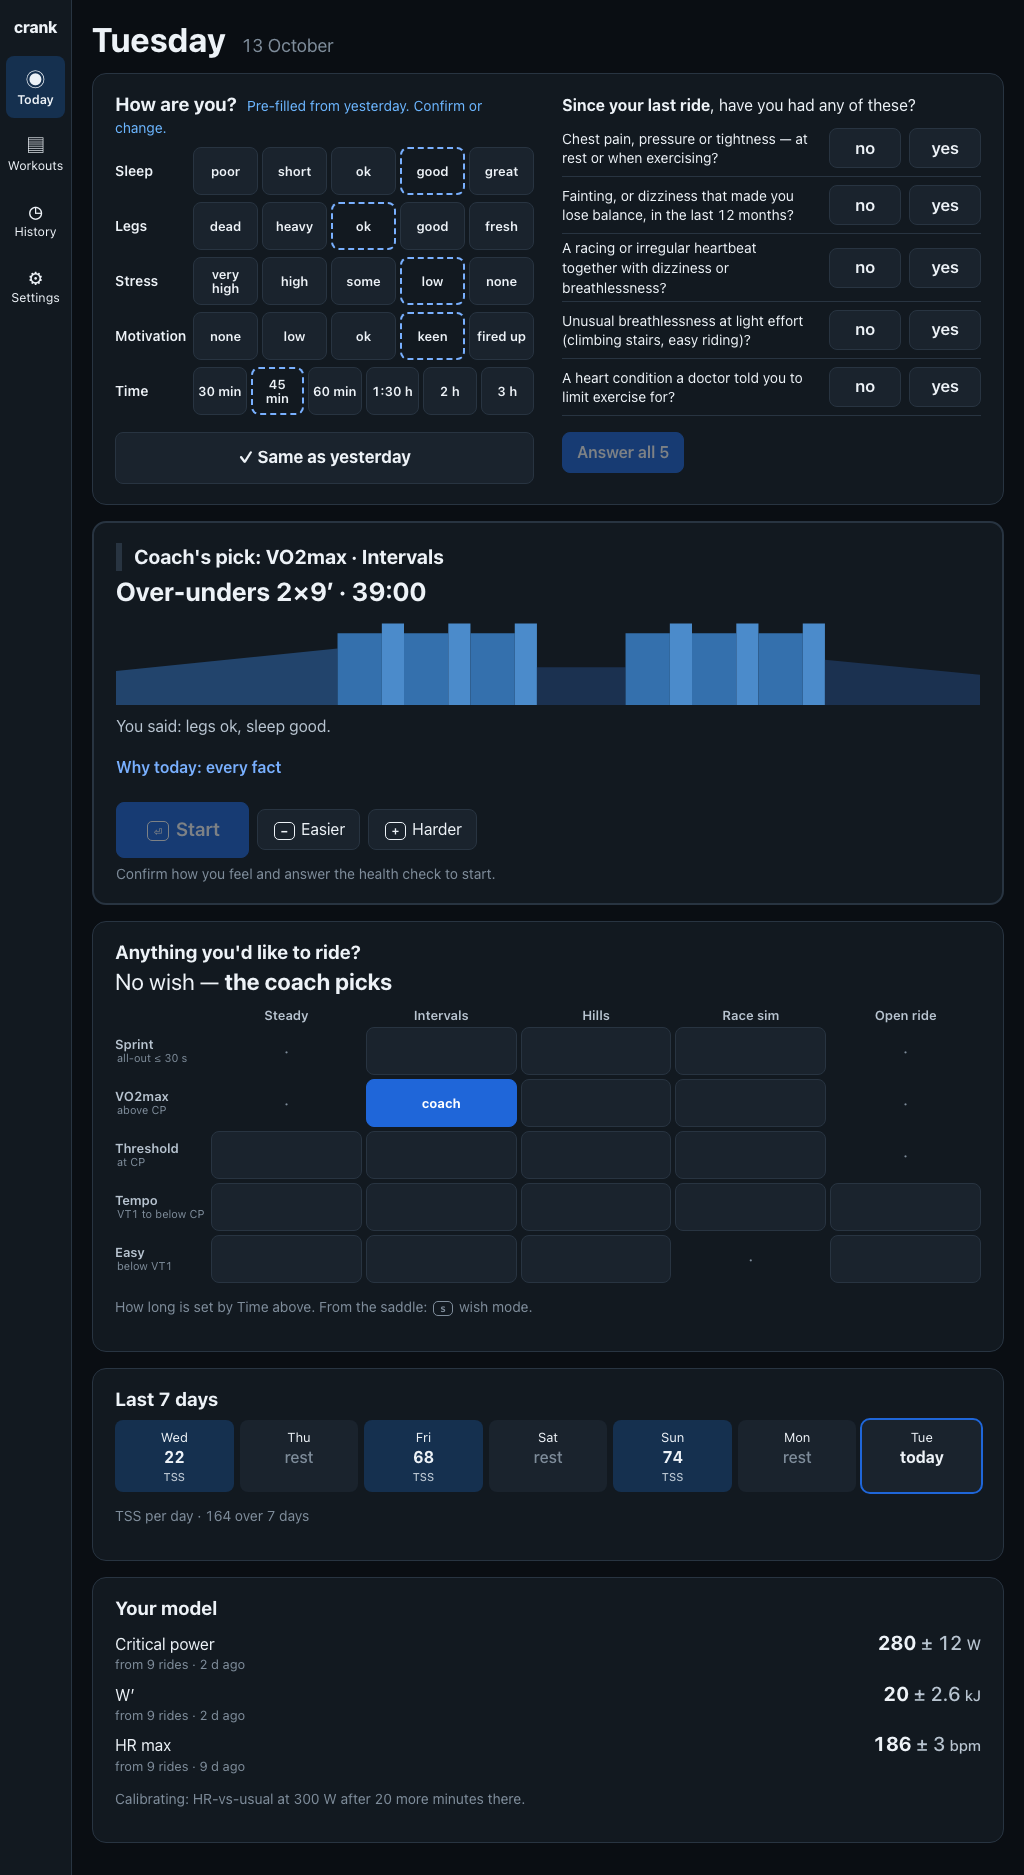
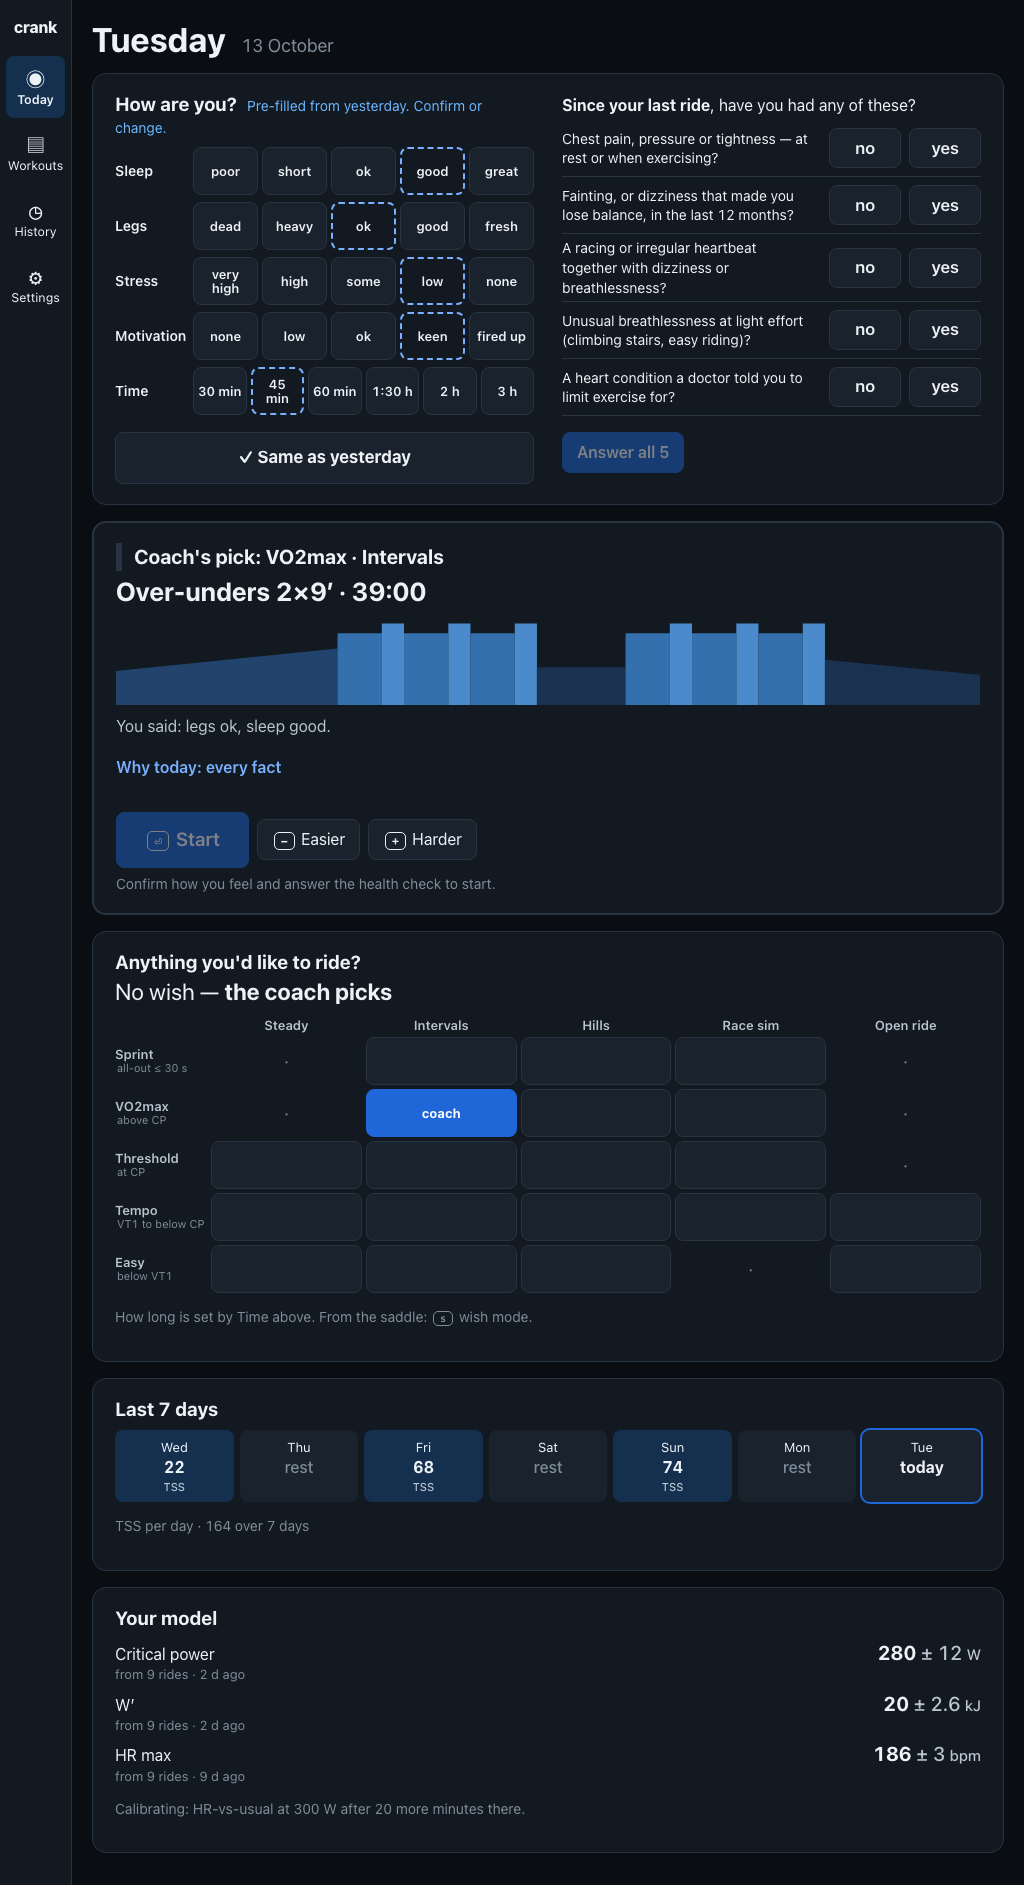
fix(design): §16 prototype follow-ups — desk Start above the fold, strict matrixFold, drawer closes on resize
Refs: #179

diff --git a/design/prototype/src/app.css b/design/prototype/src/app.css
@@ -131,6 +131,9 @@ svg .marker { stroke: var(--status-warning); stroke-width: 2; stroke-dasharray: 
 .today-grid { display: grid; gap: 16px; grid-template-columns: minmax(0, 7fr) minmax(0, 4fr); grid-template-areas: "card wish" "week model"; align-items: start; }
 .today-grid[data-stop] { grid-template-areas: "card card" "week model"; }
 .today-card { grid-area: card; display: flex; flex-direction: column; min-width: 0; align-self: stretch; }
+/* the desk card does not stretch to the matrix beside it: stretching pushed Start below the fold and left an empty band
+   under "Why today" (§16.2, #179). The saddle card stretches, its actions pinned to its bottom edge. */
+.today-card:has(> .proposal-card.desk) { align-self: start; }
 .today-card > .card { flex: 1; }
 .today-wish { grid-area: wish; min-width: 0; }
 .today-week { grid-area: week; min-width: 0; }
@@ -628,8 +631,7 @@ main[data-destination]:focus { outline: none; }
 .card-keys kbd { font-size: 0.6em; vertical-align: middle; }
 .proposal-card .actions { flex-wrap: nowrap; gap: 8px; margin-top: 10px; }
 .proposal-card.saddle .actions.saddle { margin-top: auto; padding-top: 8px; }
-/* the desk card stretches to the matrix beside it; its actions sit at the bottom (§16.2) */
-.proposal-card.desk .actions { margin-top: auto; padding-top: 4px; }
+.proposal-card.desk .actions { padding-top: 4px; }
 .proposal-card.saddle .actions.saddle button { min-height: 72px; font-size: var(--t3); padding: 0 12px; flex: 1 1 auto; white-space: nowrap; }
 .proposal-card.saddle .actions.saddle kbd { font-size: 0.55em; padding: 1px 4px; vertical-align: middle; }
 .outcome-line { font-weight: 700; border-left: 6px solid var(--border); padding-left: 12px; }

diff --git a/design/prototype/src/views/Wish.tsx b/design/prototype/src/views/Wish.tsx
@@ -169,7 +169,7 @@ export function ProposalCard(p: {
           <Key a="skip" /> other wish · <Key a="keep" /> coach's pick
         </p>
       )}
-      <div className={saddle ? "actions saddle" : "actions"} {...(saddle ? { "data-above-fold": "" } : {})} data-fit>
+      <div className={saddle ? "actions saddle" : "actions"} data-above-fold={saddle ? "" : "wide"} data-fit>
         <button className={saddle ? "primary" : "primary big"} disabled={!p.ready} onClick={p.onStart}>
           <Key a="coach" /> Start
         </button>

diff --git a/design/prototype/src/views/Workouts.tsx b/design/prototype/src/views/Workouts.tsx
@@ -119,6 +119,10 @@ export function Workouts() {
   const drawer = useStore(libraryOpen);
   const drawerMode = useDrawerMode();
   const modal = drawer && drawerMode;
+  // crossing to ≥ 1280 px closes the drawer, so it cannot reappear as a modal when the window shrinks again (#179)
+  useEffect(() => {
+    if (!drawerMode) libraryOpen.set(false);
+  }, [drawerMode]);
   const libRef = useRef<HTMLElement>(null);
   const toggleRef = useRef<HTMLButtonElement>(null);
   const closeLibrary = () => libraryOpen.set(false);

diff --git a/docs/design/DESIGN.md b/docs/design/DESIGN.md
@@ -1218,13 +1218,14 @@ T1 below it is still the block countdown), Focus keeps the second slot's exact b
 | Decision | What it is | Why |
 |---|---|---|
 | **Check-in collapses** | Once confirmed (Same as yesterday, or any change) **and** today's red flags answered, the check-in is one summary line: "sleep short · legs heavy · stress some · motivation keen · 60 min · no red flags" + *Edit*. *Edit* re-opens it in place; while open, a change never collapses it mid-edit — **✓ Use these answers** closes it (disabled until the red flags are answered). | After confirming, the check-in is history; one line keeps it checkable without pushing the card down. **Start needs the check-in done and closed**: confirmed (Same as yesterday, or a change, §5.1), today's red flags answered (§5.8), and not open for editing — so Start, and Enter, only ever act on the saddle card the rider can see, above the fold. This is stricter than §5.1 alone (a change used to enable Start while the answers were still open), never looser. "Use these answers" is named differently from the red-flag check's *Done* so the two never read as one action. Under the disabled Start the desk card says what is missing: "Confirm how you feel and answer the health check to start" before the first confirmation, "Answer the health check to start" when only the red flags are left, and "Use these answers to finish editing and enable Start" while a done check-in is re-opened. |
-| **One proposal surface** | The full-width saddle proposal and the desk proposal card are one card with two forms. **Desk** (check-in open): outcome line, session · duration, profile, one reason + *Why?*, actions Start ⏎ · − Easier · + Harder · Ride my wish / Ride the full X; "Why today: every fact" discloses the other reasons (each with *Why?*), the facts and the model's confidence, and *Edit a copy in Workouts*. **Saddle** (check-in done): the same card at T3+ / T3 with **72 px actions pinned to its bottom edge**, always above the fold; the same "Why today: every fact" disclosure (desk-size type, collapsed) above the key hints; S (Skip) / Pause open wish mode, Keep returns to the coach's pick, hinted on the card **at T3** ("S other wish · N coach's pick"), above the fold — it is the only saddle cue for wish mode, so it must read at 1 m. The desk card stretches to the height of the matrix beside it, its actions at its bottom edge. | Two cards said the same thing twice. Information is kept, not cut: the §5.1 facts, the §15.2 reasons and *Edit a copy* are one click away in both forms, and the first reason's *Why?* is on the card. **Shorter** is dropped from the card because the time is a check-in answer (§15.2: how long is Today's time) — it was a duplicate control. *Other wish* is dropped as a button: the matrix is beside the card at 1440, and wish mode is the bars' path (§15.2). One cursor: − / + on the card, Intensity − / + and the matrix all move the same wish (one outcome table, §15.2). |
+| **One proposal surface** | The full-width saddle proposal and the desk proposal card are one card with two forms. **Desk** (check-in open): outcome line, session · duration, profile, one reason + *Why?*, actions Start ⏎ · − Easier · + Harder · Ride my wish / Ride the full X; "Why today: every fact" discloses the other reasons (each with *Why?*), the facts and the model's confidence, and *Edit a copy in Workouts*. **Saddle** (check-in done): the same card at T3+ / T3 with **72 px actions pinned to its bottom edge**, always above the fold; the same "Why today: every fact" disclosure (desk-size type, collapsed) above the key hints; S (Skip) / Pause open wish mode, Keep returns to the coach's pick, hinted on the card **at T3** ("S other wish · N coach's pick"), above the fold — it is the only saddle cue for wish mode, so it must read at 1 m. The desk card does **not** stretch to the height of the matrix beside it: its actions follow its content, so Start is above the fold at 1440×900 in every desk state (check-in open, injury cap, carried-over note) and no empty band sits under "Why today" (#179). | Two cards said the same thing twice. Information is kept, not cut: the §5.1 facts, the §15.2 reasons and *Edit a copy* are one click away in both forms, and the first reason's *Why?* is on the card. **Shorter** is dropped from the card because the time is a check-in answer (§15.2: how long is Today's time) — it was a duplicate control. *Other wish* is dropped as a button: the matrix is beside the card at 1440, and wish mode is the bars' path (§15.2). One cursor: − / + on the card, Intensity − / + and the matrix all move the same wish (one outcome table, §15.2). |
 | **1440 layout** | Card 7fr | matrix 4fr, above the fold — the **complete** matrix, in every desk and saddle state. To keep it there with the check-in open: the injury-cap notice shares the date's line (one line at 1440: "⚠ Capped at threshold (100 % of CP, 280 W) · no sprints · ERG only — from your injury answer; lift it in Settings → Health"), and a carried-over wish's note sits under the matrix (the ↻ cell marks the wish itself). Last 7 days and Model in a strip under each column. Under a medical stop there is no matrix (§15.2), so the stop card spans both columns. | The proposal and the wish are the decision; history and the model are context. |
 | **1024 layout** | Stacked: summary line, the card (actions pinned at its bottom), then the matrix, Last 7 days, Model. The layout switches on the page's own width (CSS container query, < 1000 px), so 1440 with the *Why?* sheet pushed aside stacks too and the card keeps its full width. | A 4fr matrix in 912 px is too narrow for its five formats; the card must stay above the fold. |
 
 Above the fold: the saddle card (outcome, session, reason, actions) at both sizes, including `today-why`; the desk
-card's outcome line and session at both sizes (its Start is disabled while the check-in above it is open, so its
-actions are not required above the fold; `test:safety` checks Start is disabled after *Edit*). The open check-in lays its answers and the red-flag check side by side.
+card's outcome line and session at both sizes, and its actions — Start, the primary action — at 1440×900 (at 1024 the
+open check-in stacks above the card, so its actions may sit below the fold there; `test:safety` checks Start is
+disabled after *Edit*). The open check-in lays its answers and the red-flag check side by side.
 Key glyphs, on every key hint (Today, the ride's `?` list and hints, wish mode, Settings → Controls): Enter ⏎, Backspace
 ⌫, Escape "Esc", the space bar "Space"; any other key as typed.
 
@@ -1233,7 +1234,7 @@ Key glyphs, on every key hint (Today, the ride's `?` list and hints, wish mode, 
 | Decision | What it is | Why |
 |---|---|---|
 | **Labelled icon rail** | 72 px at every size (the accepted 72–76 px range's lower end): icon over a 12.5 px word, 62 px items, ≥ 48 px targets, never an icon alone. Replaces the 184 px text rail (148 px at ≤ 1100). The page's max width rises from 1240 to 1368 px (= 1440 − rail). | Content width: 1304 px at 1440 (was 1176, +128 — the old max width capped the rail's gain), **912 px at 1024** (was 836). The words stay, so the rail is as findable as before. |
-| **Workouts library drawer** | Below 1280 px the library is a drawer: **☰ Library** in the editor header opens it over the panes and a dimming scrim; its items are ≥ 48 px. While open it is **modal**: focus moves to its first item, Tab and Shift+Tab wrap inside it, and the editor behind it is inert. A pick, ✕, Esc or a click on the scrim closes it, and focus returns to ☰ Library. ≥ 1280 px keeps the 200 px column (not modal). | Outline · Text · Summary stay in one row at 1024 (#111), instead of the summary moving under them; the library is used once per edit session, the panes all the time. |
+| **Workouts library drawer** | Below 1280 px the library is a drawer: **☰ Library** in the editor header opens it over the panes and a dimming scrim; its items are ≥ 48 px. While open it is **modal**: focus moves to its first item, Tab and Shift+Tab wrap inside it, and the editor behind it is inert. A pick, ✕, Esc or a click on the scrim closes it, and focus returns to ☰ Library. Growing the window to ≥ 1280 px closes it too, so it cannot come back as a modal when the window shrinks. ≥ 1280 px keeps the 200 px column (not modal). | Outline · Text · Summary stay in one row at 1024 (#111), instead of the summary moving under them; the library is used once per edit session, the panes all the time. |
 
 ### 16.4 Prototype, screens, checks
 
@@ -1252,8 +1253,9 @@ Key glyphs, on every key hint (Today, the ride's `?` list and hints, wish mode, 
   - any **ride region moves, appears or disappears**: the set of `[data-geom]` boxes (Pause, clock, intensity, `?`,
     rows 1/T1/band, both slots, the lane and its five rows, the road's three rows) and each box must equal
     `ride-threshold`'s at the same size and theme, in every phase template and state (#10).
-  - at 1440, the **complete** Today wish matrix beside the card leaves the viewport (every desk and saddle state —
-    a full-page PNG alone does not prove the fold);
+  - at 1440, the **complete** Today wish matrix is missing, stacked under the card, or leaves the viewport (every desk
+    and saddle state — a full-page PNG alone does not prove the fold). Exempt: a medical stop (no matrix, §15.2) and
+    the *Why?* sheet open (the page stacks, §16.2);
   - a status-bar group shrinks: no group may, so the widest device pill (`ride-reconnected-hr-lost`) must fit at
     1024 as it is (the geometry check catches the `?` moving).
 - `pnpm test:safety` adds the check-in flow: desk card with Start disabled while open; Same as yesterday alone does
@@ -1262,6 +1264,9 @@ Key glyphs, on every key hint (Today, the ride's `?` list and hints, wish mode, 
   under Start names what is missing in each case. It also drives the Workouts library drawer at 1024 **keyboard
   only**: Enter on ☰ Library opens it with focus inside; Tab / Shift+Tab stay inside, the editor is inert; Esc and
   Enter on an item close it with focus back on ☰ Library; the scrim closes it too.
+- `pnpm test:layout` (#179) checks Start is inside 1440×900 with no empty band under the desk card in `today`,
+  `today-health-cap`, `today-checkin-edit` and `today-wish-carried`; and that opening the library drawer at 1024,
+  growing the window to 1440 and shrinking it again leaves the drawer closed (crossing 1280 px closes it).
 - Not changed here, filed: the lane's buttons (58 / 49 px) are below §7.2's 64 px, and the status bar's fault words
   are 16 px, below T3 — both pre-date §16 (#177).
 
